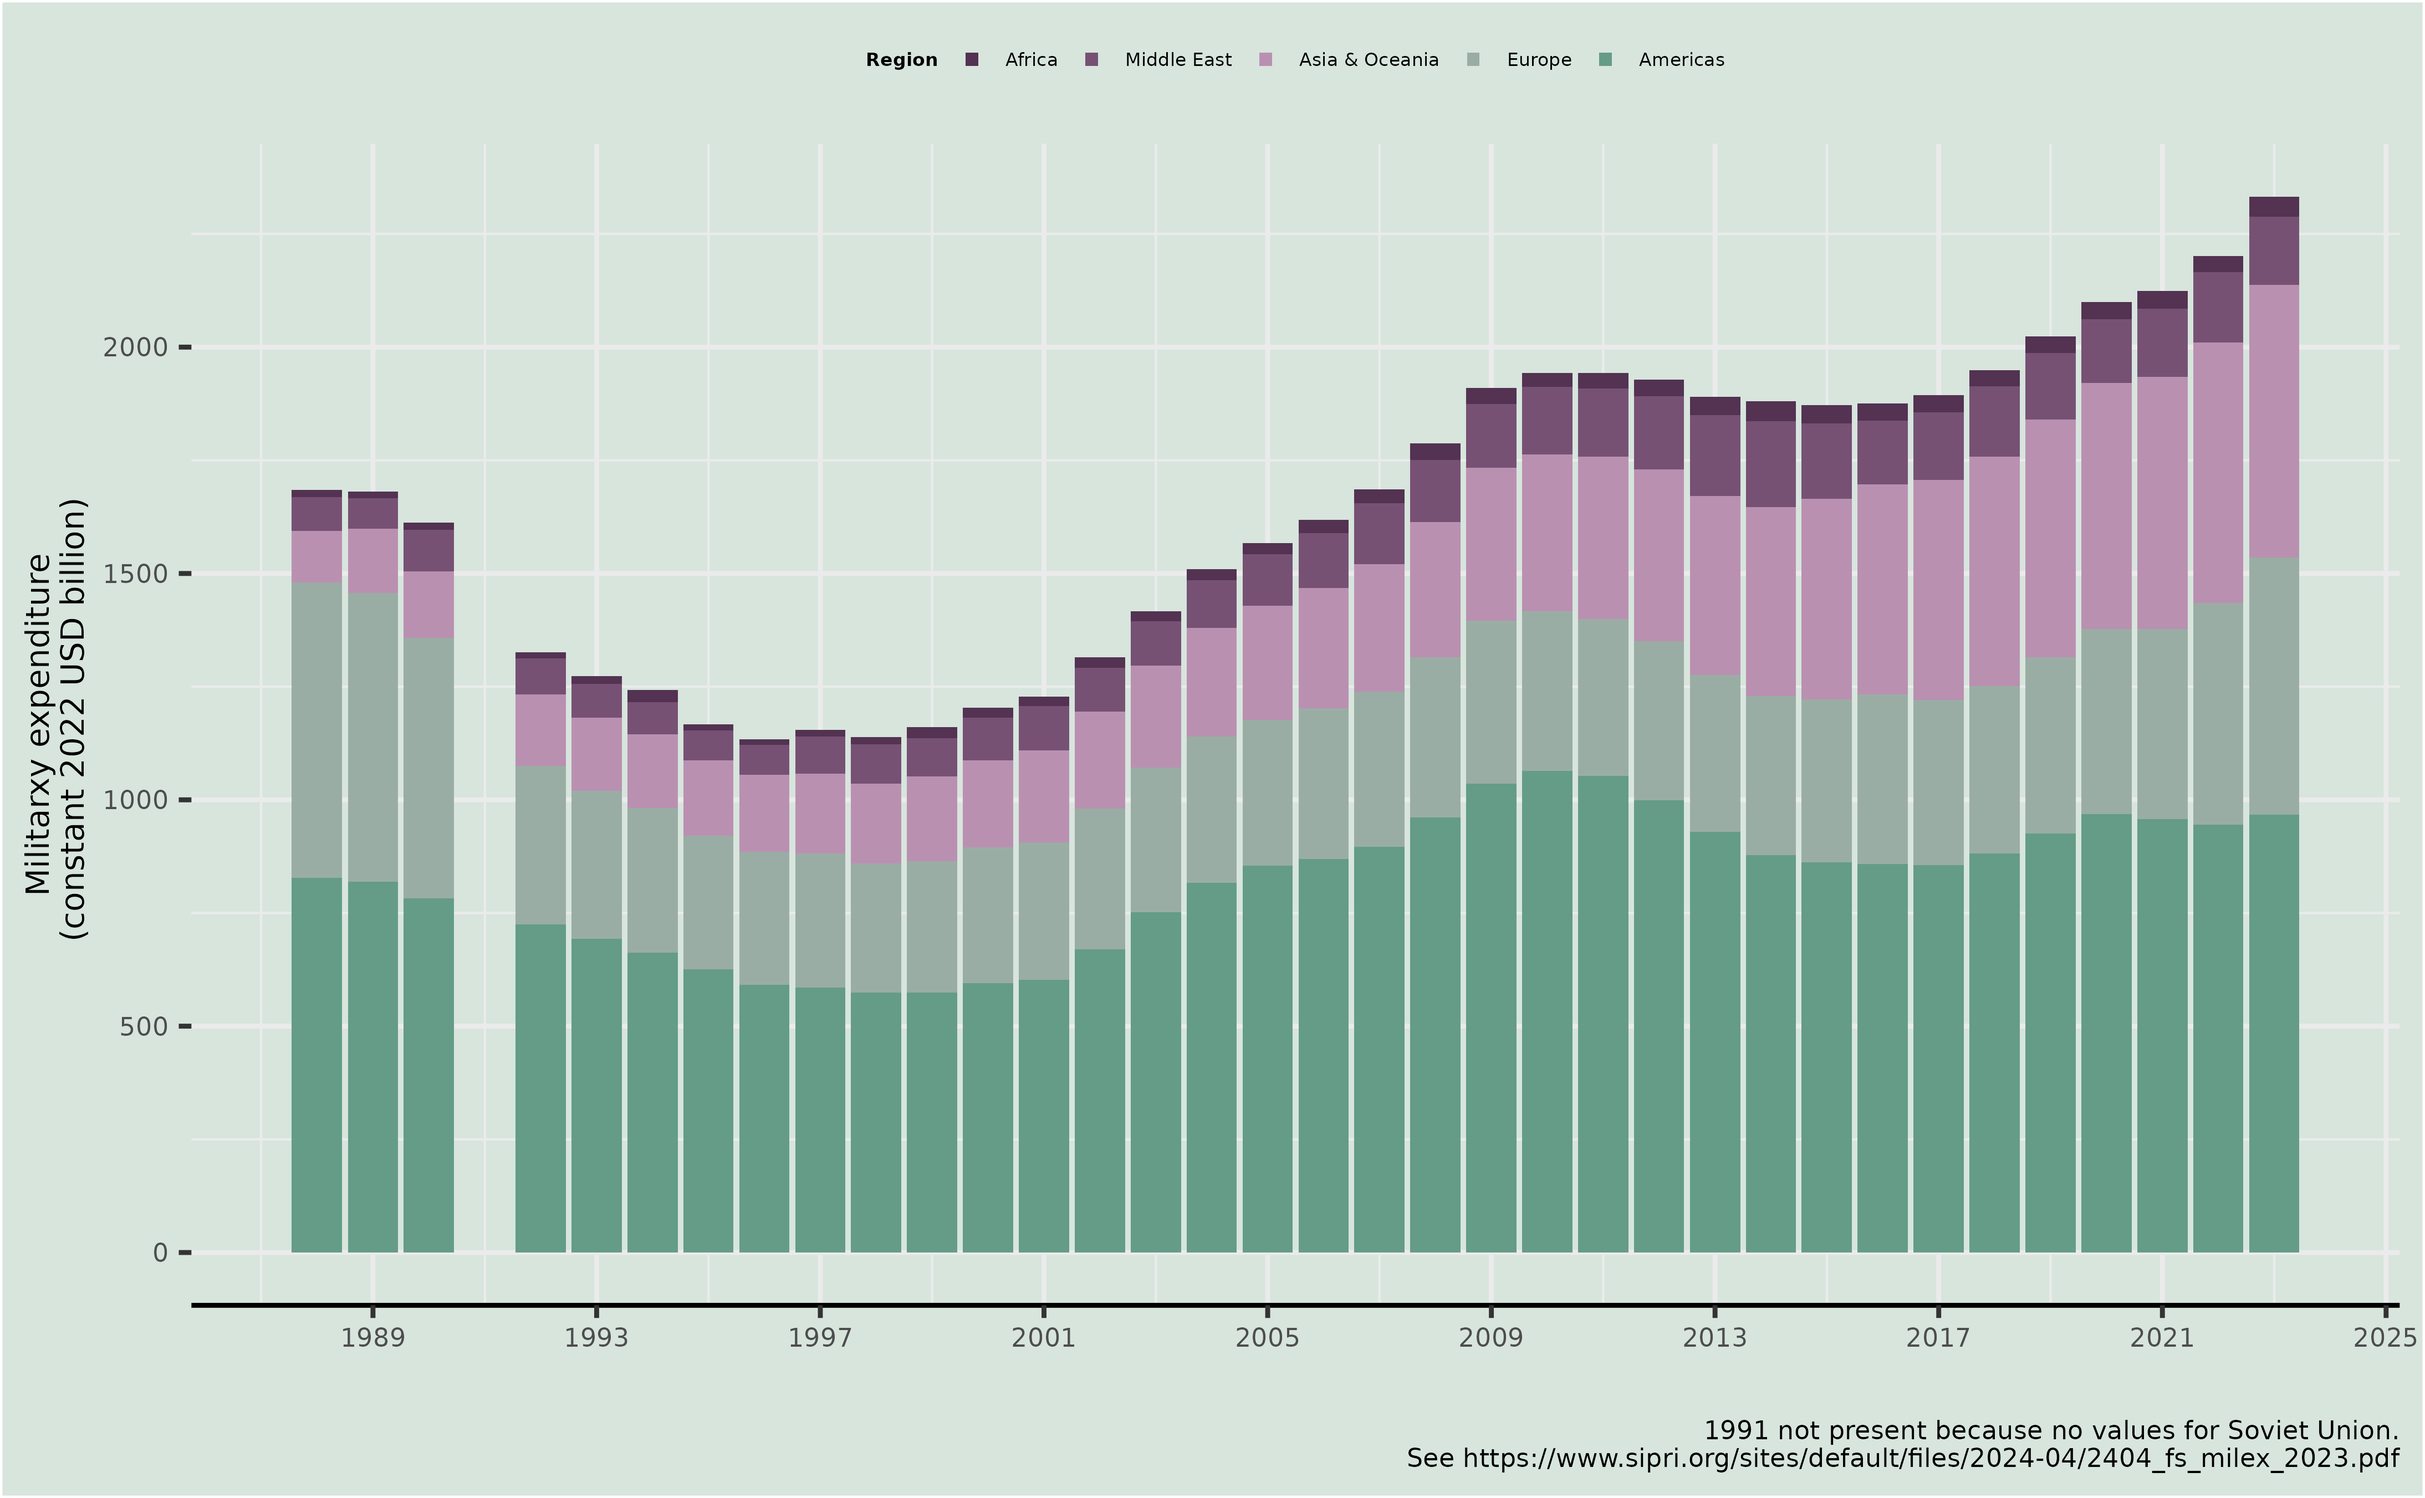
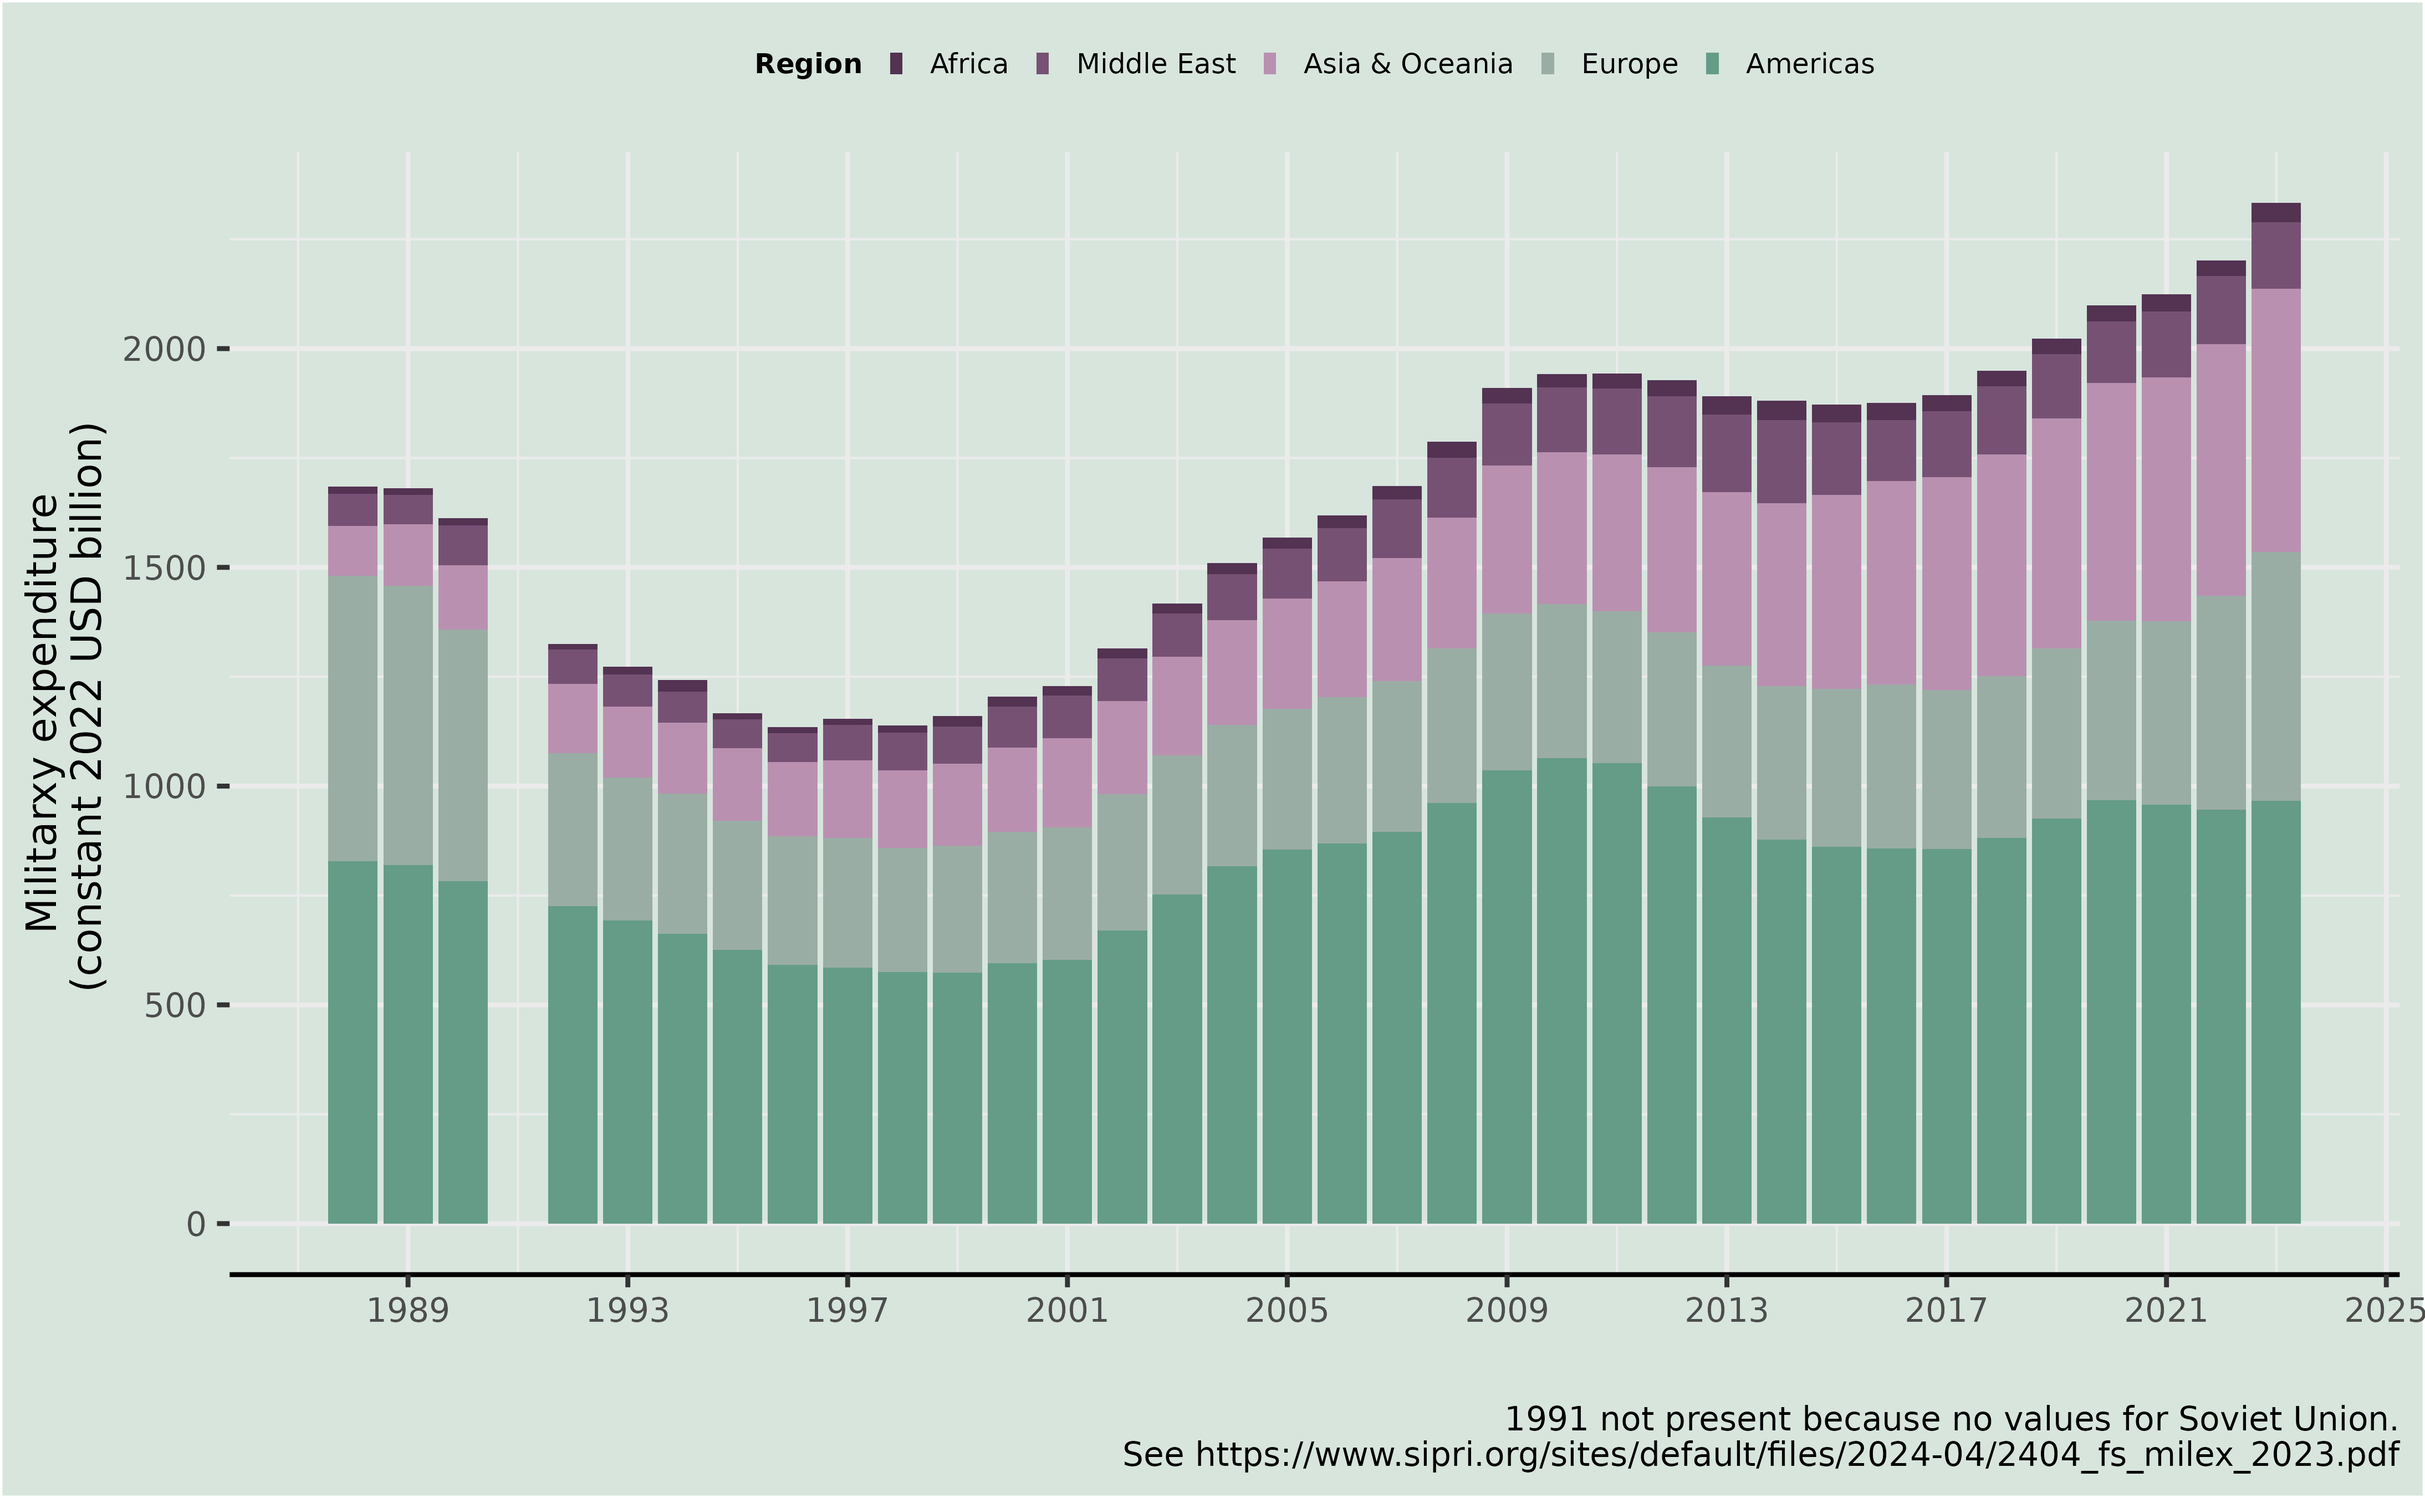
Deploying to gh-pages from @ datapumpernickel/milRex@0699afe024cdbd141fcb79c785fc11fc2412fa42 🚀

diff --git a/articles/milRex.html b/articles/milRex.html
@@ -152,11 +152,11 @@ spending by regions.</p>
 <span>        legend.background <span class="op">=</span> <span class="fu"><a href="https://ggplot2.tidyverse.org/reference/element.html" class="external-link">element_rect</a></span><span class="op">(</span>fill <span class="op">=</span> <span class="fu"><a href="https://rdrr.io/r/grDevices/rgb.html" class="external-link">rgb</a></span><span class="op">(</span><span class="fl">215</span>, <span class="fl">229</span>, <span class="fl">221</span>, </span>
 <span>                                                  maxColorValue <span class="op">=</span> <span class="fl">255</span><span class="op">)</span><span class="op">)</span>,</span>
 <span>        legend.position <span class="op">=</span> <span class="st">"top"</span>,</span>
-<span>        legend.text <span class="op">=</span> <span class="fu"><a href="https://ggplot2.tidyverse.org/reference/element.html" class="external-link">element_text</a></span><span class="op">(</span>size <span class="op">=</span> <span class="fl">4</span><span class="op">)</span>,</span>
-<span>        legend.title <span class="op">=</span> <span class="fu"><a href="https://ggplot2.tidyverse.org/reference/element.html" class="external-link">element_text</a></span><span class="op">(</span>size <span class="op">=</span> <span class="fl">4</span>,face  <span class="op">=</span> <span class="st">"bold"</span><span class="op">)</span>,</span>
+<span>        legend.text <span class="op">=</span> <span class="fu"><a href="https://ggplot2.tidyverse.org/reference/element.html" class="external-link">element_text</a></span><span class="op">(</span>size <span class="op">=</span> <span class="fl">6</span><span class="op">)</span>,</span>
+<span>        legend.title <span class="op">=</span> <span class="fu"><a href="https://ggplot2.tidyverse.org/reference/element.html" class="external-link">element_text</a></span><span class="op">(</span>size <span class="op">=</span> <span class="fl">6</span>,face  <span class="op">=</span> <span class="st">"bold"</span><span class="op">)</span>,</span>
 <span>        panel.border <span class="op">=</span> <span class="fu"><a href="https://ggplot2.tidyverse.org/reference/element.html" class="external-link">element_blank</a></span><span class="op">(</span><span class="op">)</span>,</span>
 <span>        axis.line.x <span class="op">=</span> <span class="fu"><a href="https://ggplot2.tidyverse.org/reference/element.html" class="external-link">element_line</a></span><span class="op">(</span><span class="op">)</span>,</span>
-<span>        text <span class="op">=</span> <span class="fu"><a href="https://ggplot2.tidyverse.org/reference/element.html" class="external-link">element_text</a></span><span class="op">(</span>size <span class="op">=</span> <span class="fl">7</span><span class="op">)</span>,</span>
+<span>        text <span class="op">=</span> <span class="fu"><a href="https://ggplot2.tidyverse.org/reference/element.html" class="external-link">element_text</a></span><span class="op">(</span>size <span class="op">=</span> <span class="fl">9</span><span class="op">)</span>,</span>
 <span>        legend.key.size <span class="op">=</span> <span class="fu"><a href="https://rdrr.io/r/grid/unit.html" class="external-link">unit</a></span><span class="op">(</span><span class="fl">0.05</span>, <span class="st">'in'</span><span class="op">)</span><span class="op">)</span><span class="op">+</span></span>
 <span>  <span class="fu"><a href="https://ggplot2.tidyverse.org/reference/scale_manual.html" class="external-link">scale_fill_manual</a></span><span class="op">(</span>values <span class="op">=</span> </span>
 <span>                      <span class="fu"><a href="https://rdrr.io/r/base/c.html" class="external-link">c</a></span><span class="op">(</span></span>
